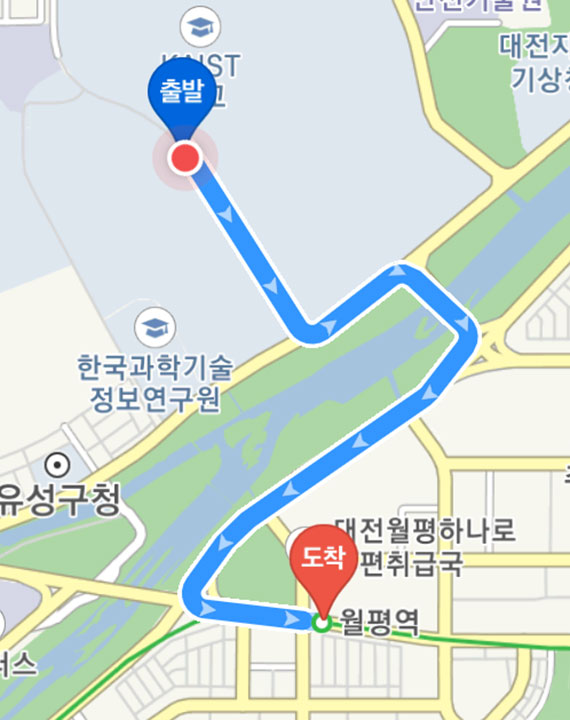
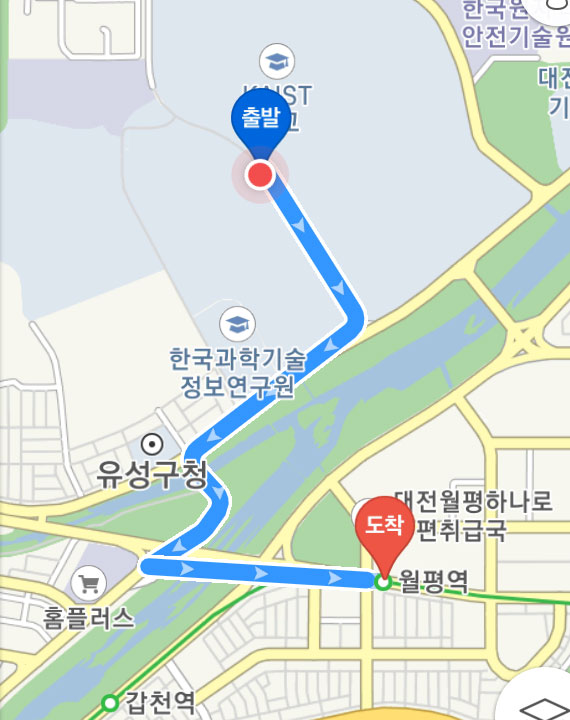
w

diff --git a/destination.html b/destination.html
@@ -28,7 +28,7 @@
 		<div class="container">
 			<div class="row">
 				<div class="col-sm-5 pull-left"><img class="img-fluid destin1" src="img/destination_1.jpg" alt="">
-				<img class="img-fluid destin2" src="img/destination_1.jpg" alt=""></div>
+				<img class="img-fluid destin2" src="img/destination_2.jpg" alt=""></div>
 				<!-- <div class="col-sm-1"></div> -->
 				<div class="col-sm-7 pull-right">
 
@@ -48,12 +48,15 @@
 										<input class="form-control" id="getdestination" type="text" placeholder="변경할 목적지를 입력해주세요.">
 										</div>
 
-										</form>
-										<p class="change mt-5 mb-1">목적지를 변경하시겠습니까?
-									</p>	
-									<div class="button-box">								
-								<a href="on_board_onroad.html" class="button-left button cancel">취소</a>
-								<a href="on_board_changed.html" class="button-right button">목적지 변경하기</a></div>
+										<div class="form-group mt-5">
+											<p class="change mb-1">목적지를 변경하시겠습니까?</p>
+											<div class="button-box">
+												<button id="sendMessageButton" class="button-left button cancel" type="cancel">취소</button>
+			                  <button id="sendMessageButton" class="button-right button" type="submit">목적지 변경하기</button>
+		                  </div>
+										</div>
+									</form>
+
 								
 
 				</div>
